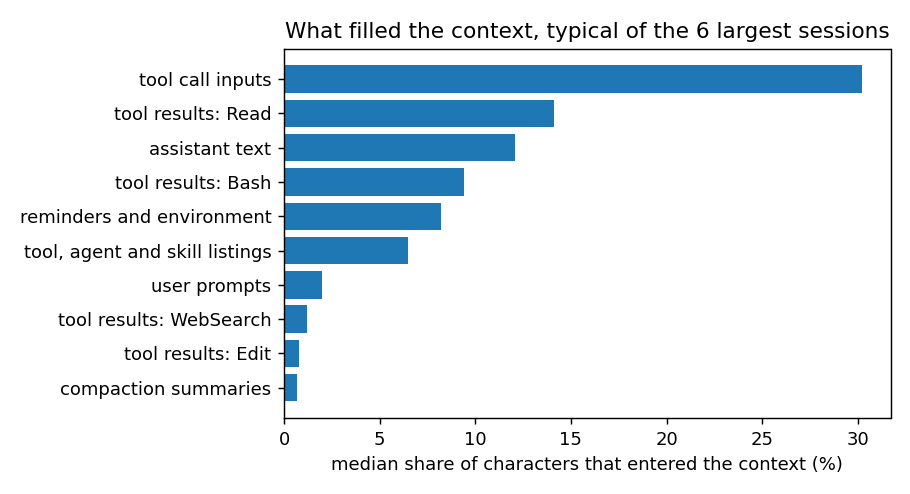
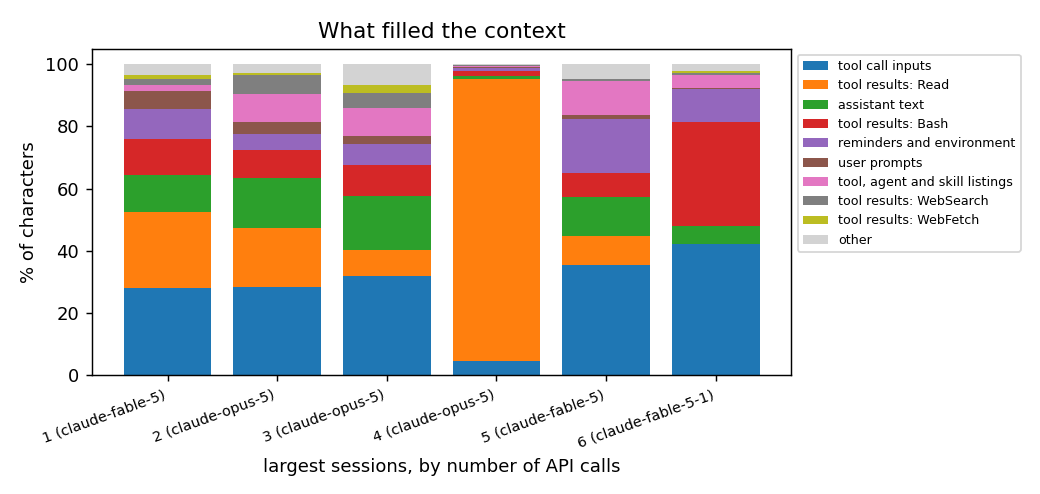
Restore the per-session composition chart in published output
The split of a session's context by source says nothing about who ran
it and shows how differently sessions fill, so the publish report draws
it again for the largest sessions, numbered by size and labelled by
model. The privacy policy states the distinction it rests on.

diff --git a/src/ctxeng/publish.py b/src/ctxeng/publish.py
@@ -222,13 +222,30 @@ def render_publish_charts(sessions: list[Session], prompts: list[dict], out_dir:
         plt.close(fig)
         made.append(p)
 
-    rows, pooled = aggregate_composition(sessions, top=6)
-    if rows:
-        rows = rows[:10]
-        fig, ax = plt.subplots(figsize=(7, 3.8))
-        ax.barh([r["source"] for r in rows][::-1], [r["median_session_pct"] for r in rows][::-1])
-        ax.set_xlabel("median share of characters that entered the context (%)")
-        ax.set_title(f"What filled the context, typical of the {pooled} largest sessions")
+    # One stacked bar per large session, numbered by size and labelled by model. Shares of tool
+    # types per session say nothing about who ran them, and the spread between sessions is the
+    # point of the picture.
+    largest = sorted(sessions, key=lambda s: len(s.api_calls), reverse=True)[:6]
+    if largest:
+        comps = [published_composition(s) for s in largest]
+        names = [f"{i} ({metrics.dominant(s.models)})" for i, s in enumerate(largest, start=1)]
+        top_sources: list[str] = []
+        for comp in comps:
+            for r in comp[:6]:
+                if r["source"] not in top_sources:
+                    top_sources.append(r["source"])
+        fig, ax = plt.subplots(figsize=(8, 3.8))
+        bottoms = [0.0] * len(largest)
+        for src in top_sources:
+            vals = [next((r["share"] * 100 for r in comp if r["source"] == src), 0.0) for comp in comps]
+            ax.bar(names, vals, bottom=bottoms, label=src)
+            bottoms = [b + v for b, v in zip(bottoms, vals)]
+        ax.bar(names, [100 - b for b in bottoms], bottom=bottoms, color="lightgrey", label="other")
+        ax.set_ylabel("% of characters")
+        ax.set_xlabel("largest sessions, by number of API calls")
+        ax.set_title("What filled the context")
+        ax.legend(fontsize=7, loc="upper left", bbox_to_anchor=(1, 1))
+        plt.setp(ax.get_xticklabels(), rotation=20, ha="right", fontsize=8)
         fig.tight_layout()
         p = out_dir / "composition.png"
         fig.savefig(p, dpi=130)

diff --git a/docs/findings/2026-09-11-first-look.md b/docs/findings/2026-09-11-first-look.md
@@ -114,9 +114,12 @@ dominated by one very large session.
 
 ![What filled the context](img/2026-09-11-composition.png)
 
+The six sessions are numbered by size and labelled by model. The spread between them is the
+point: no two sessions are filled the same way.
+
 - The model's own tool inputs are the largest source in a typical long session: file content
   going out through Write and Edit, and commands going out through Bash.
-- Tool results come next, and which tool dominates varies wildly. One session was 90% Read
+- Tool results come next, and which tool dominates varies wildly. Session 4 was 90% Read
   results, which is why the pooled column looks so different from the typical one.
 - What the person typed is 2% of a typical session. Compaction summaries are 1%.
 - Injected context is not free. Listings and reminders together are about 15% of a typical

diff --git a/docs/privacy.md b/docs/privacy.md
@@ -51,7 +51,9 @@ Two reports exist. The default one keeps per-session detail for local analysis a
   carries a name.
 - Groups backed by fewer than three sessions are omitted, since they are single-session rows in
   disguise.
-- Charts show at most two illustrative sessions, labelled by model alone, plus pooled figures.
+- Charts label sessions by rank and model, never by identifier, and show per-session detail only
+  where it says something about the phenomenon rather than the person: the split of a session's
+  context by source qualifies, a session's prompt count and calendar position do not.
 - Tool names from external integrations are collapsed to a single label, since they reveal what
   is installed on the machine.
 - Corpus descriptions in prose use approximate counts. Exact figures belong to the metrics, not
